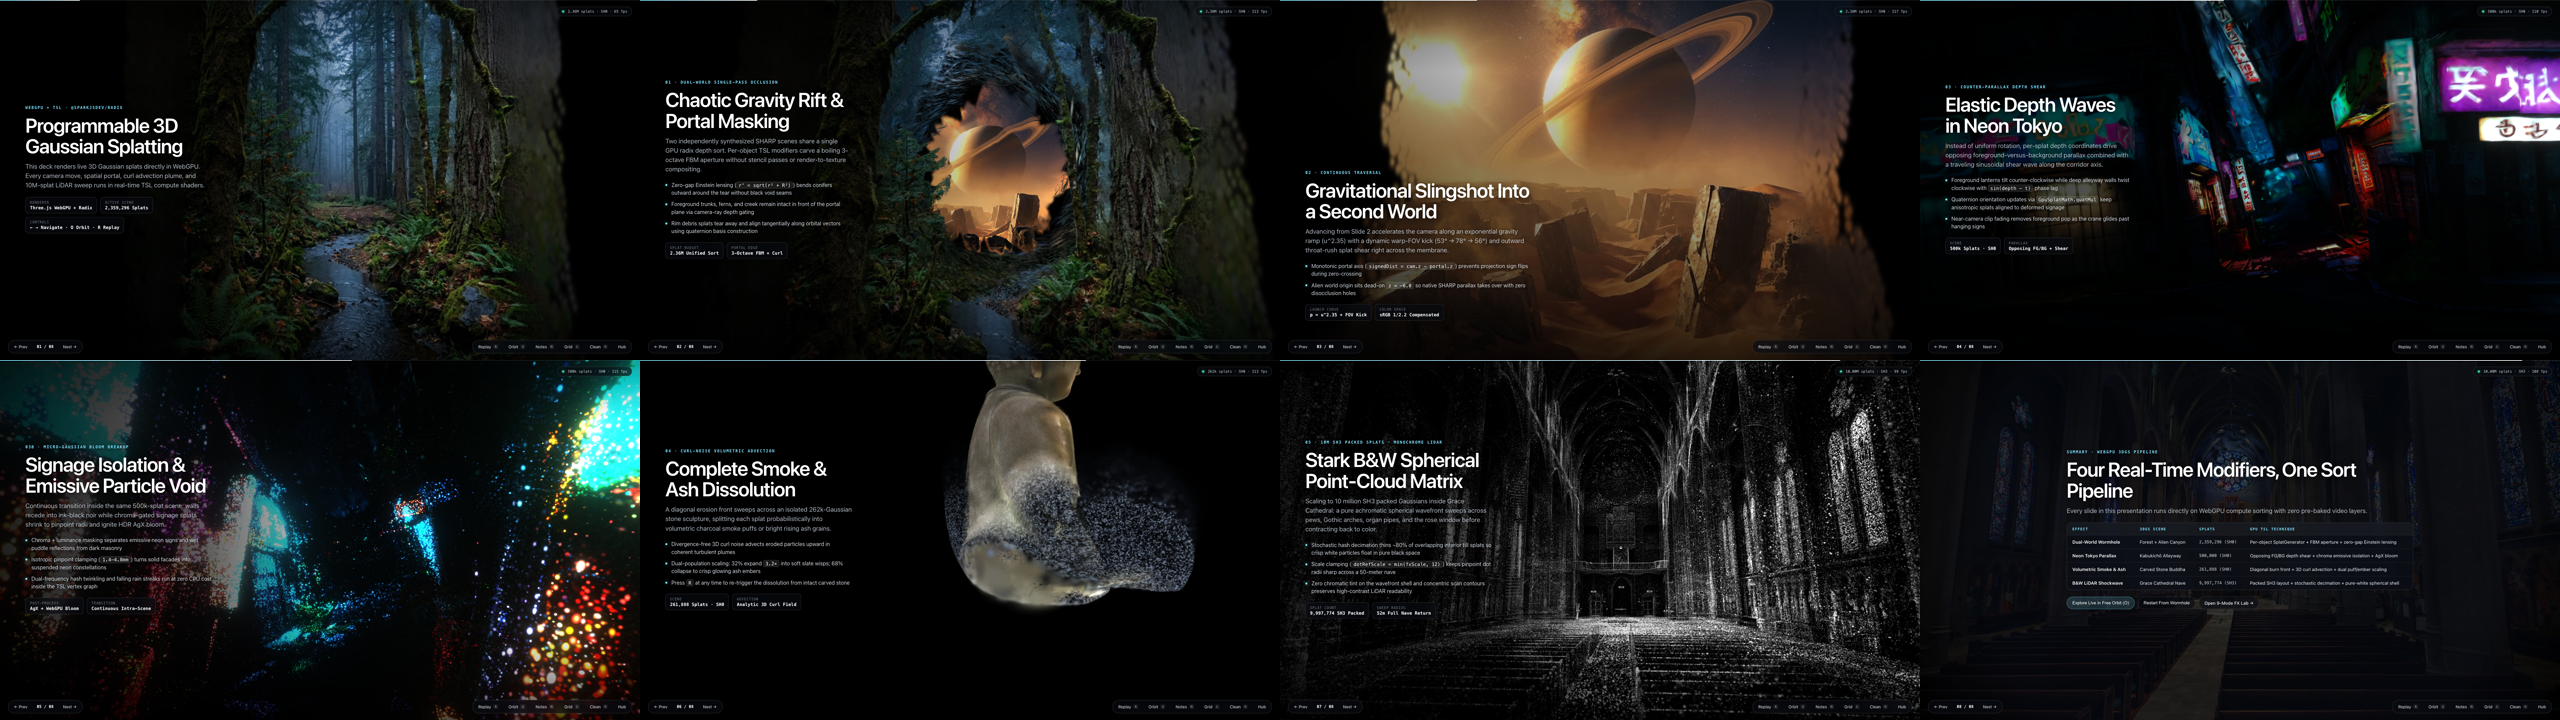
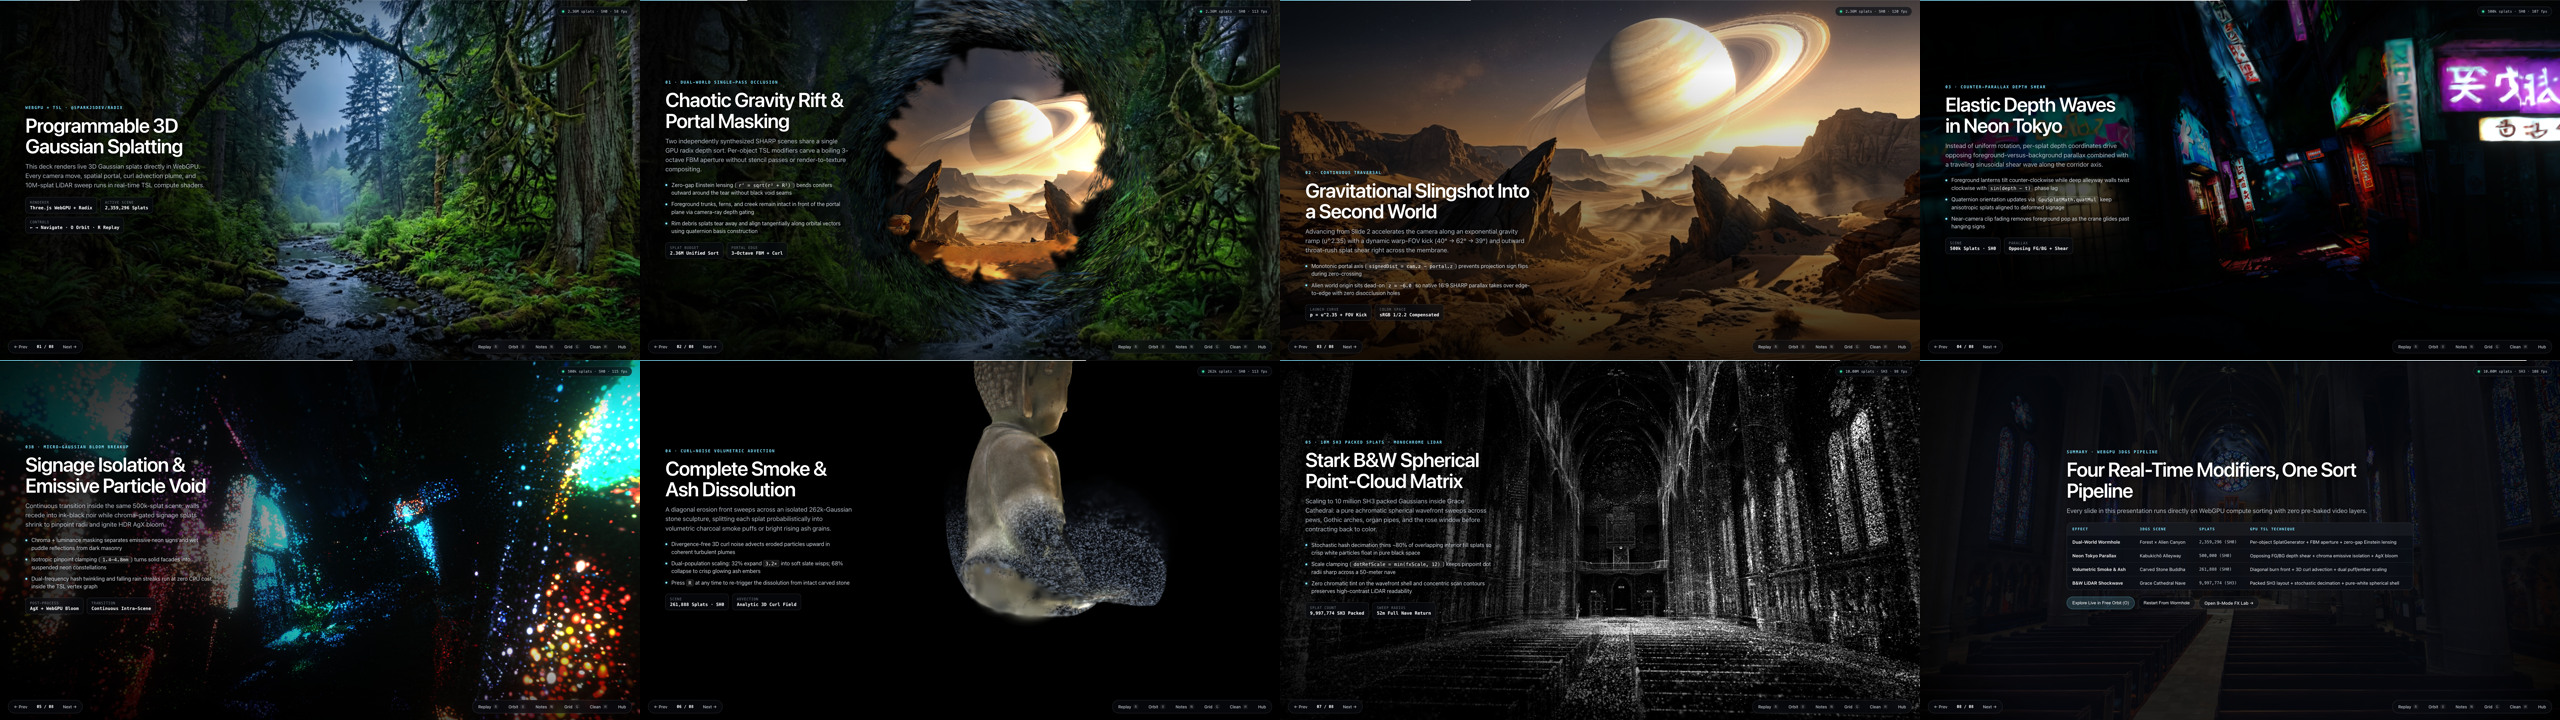
feat(playground): upgrade dual-world slides & demo video to full 16:9 landscape SHARP scenes

Changed region(s): [[0.3125, 0.0, 0.75, 0.8556], [0.0312, 0.0, 0.25, 0.5194], [0.2812, 0.2139, 0.3125, 0.2444]]

diff --git a/playground/splat-vfx/deck/slides.ts b/playground/splat-vfx/deck/slides.ts
@@ -78,16 +78,16 @@ export interface SlideSpec {
 export const DECK_SCENES: Record<DeckSceneId, SceneAssetSpec> = {
   dual_world: {
     id: "dual_world",
-    label: "Dual-World 3DGS (2.36M)",
-    url: "/assets/forest-clearing.spz",
-    secondaryUrl: "/assets/alien-dimension.spz",
+    label: "Dual-World 16:9 3DGS (2.36M)",
+    url: "/assets/forest-clearing-wide.spz",
+    secondaryUrl: "/assets/alien-dimension-wide.spz",
     placement: "dual_world",
     layout: "extSplats",
     sh: false,
     flipX: true,
     preBlur: false,
     targetSpan: 10,
-    fxCenter: [0.14, 1.05, -6.2],
+    fxCenter: [0.24, 0.55, -6.2],
     fxScale: 2.2,
     floorY: -1.1,
   },
@@ -152,11 +152,11 @@ export const SLIDES: SlideSpec[] = [
     notes:
       "Start on the intact blue-hour forest creek clearing. Both the forest (1.18M) and the hidden alien dimension (1.18M) are already mounted inside one GPU SplatCollection. Mention you can press O at any moment to orbit freely and verify it is live 3D geometry.",
     camera: {
-      pos: [-0.12, 0.06, -0.35],
-      target: [-0.24, 0.38, -6.2],
-      fov: 48,
+      pos: [0.0, 0.0, -0.25],
+      target: [0.0, 0.04, -6.2],
+      fov: 38.5,
       roll: 0.0,
-      driftAmp: [0.04, 0.018, 0.05],
+      driftAmp: [0.03, 0.014, 0.04],
       driftSpeed: 0.35,
     },
     fx: {
@@ -189,11 +189,11 @@ export const SLIDES: SlideSpec[] = [
     notes:
       "Notice there was no scene reload from Slide 1—the camera simply pushed forward down the creek while the wormhole modifier opened the aperture. Next advance will physically launch the camera through the membrane.",
     camera: {
-      pos: [-0.14, 0.16, -0.95],
-      target: [-0.34, 0.96, -6.2],
-      fov: 53,
+      pos: [0.04, 0.14, -1.05],
+      target: [-0.08, 0.42, -6.2],
+      fov: 40,
       roll: 0.0,
-      driftAmp: [0.04, 0.018, 0.05],
+      driftAmp: [0.03, 0.014, 0.04],
       driftSpeed: 0.42,
     },
     fx: {
@@ -218,10 +218,10 @@ export const SLIDES: SlideSpec[] = [
     kicker: "02 · CONTINUOUS TRAVERSAL",
     title: "Gravitational Slingshot Into a Second World",
     lead:
-      "Advancing from Slide 2 accelerates the camera along an exponential gravity ramp (u^2.35) with a dynamic warp-FOV kick (53° → 78° → 56°) and outward throat-rush splat shear right across the membrane.",
+      "Advancing from Slide 2 accelerates the camera along an exponential gravity ramp (u^2.35) with a dynamic warp-FOV kick (40° → 62° → 39°) and outward throat-rush splat shear right across the membrane.",
     bullets: [
       "Monotonic portal axis (<code>signedDist = cam.z − portal.z</code>) prevents projection sign flips during zero-crossing",
-      "Alien world origin sits dead-on <code>z = −6.0</code> so native SHARP parallax takes over with zero disocclusion holes",
+      "Alien world origin sits dead-on <code>z = −6.0</code> so native 16:9 SHARP parallax takes over edge-to-edge with zero disocclusion holes",
     ],
     metrics: [
       { label: "Launch Curve", value: "p = u^2.35 + FOV Kick" },
@@ -230,11 +230,11 @@ export const SLIDES: SlideSpec[] = [
     notes:
       "The camera physically crossed z = -6.2 through the wormhole into the warm alien canyon. Press Left Arrow if you want to show the audience the reverse traversal back out into the forest.",
     camera: {
-      pos: [0.02, 1.16, -7.25],
-      target: [-0.14, 1.72, -16.5],
-      fov: 46,
+      pos: [0.24, 0.56, -6.55],
+      target: [0.18, 0.72, -16.5],
+      fov: 39,
       roll: 0.0,
-      driftAmp: [0.05, 0.02, 0.05],
+      driftAmp: [0.04, 0.016, 0.04],
       driftSpeed: 0.34,
     },
     fx: {
@@ -349,9 +349,9 @@ export const SLIDES: SlideSpec[] = [
     notes:
       "The dissolution loops cleanly so you can talk over it, or press R to reset to intact stone right before explaining the dual-population puff vs ember split.",
     camera: {
-      pos: [-0.64, 0.06, 2.68],
-      target: [-0.52, 0.04, 0.0],
-      fov: 48,
+      pos: [-0.66, 0.14, 2.92],
+      target: [-0.52, 0.18, 0.0],
+      fov: 49,
       roll: -0.01,
       driftAmp: [0.1, 0.03, 0.04],
       driftSpeed: 0.35,

diff --git a/playground/splat-vfx/deck/main.ts b/playground/splat-vfx/deck/main.ts
@@ -390,8 +390,8 @@ function evalContinuousTransition(tr: ActiveTransition, uRaw: number) {
     const pEmerge = 1 - Math.pow(1 - uEmergeRaw, 2.4);
 
     // Bridge from forest pose -> portal throat (-6.05) -> alien emergence pose
-    const throatPos: [number, number, number] = [0.14, 0.96, -6.05];
-    const throatTgt: [number, number, number] = [0.05, 1.48, -14.5];
+    const throatPos: [number, number, number] = [0.24, 0.55, -6.05];
+    const throatTgt: [number, number, number] = [0.2, 0.68, -14.5];
 
     const posA = lerp3(forestSlide.camera.pos, throatPos, pLaunch);
     const pos = lerp3(posA, alienSlide.camera.pos, pEmerge);
@@ -399,7 +399,7 @@ function evalContinuousTransition(tr: ActiveTransition, uRaw: number) {
     const tgt = lerp3(tgtA, alienSlide.camera.target, pEmerge);
 
     const warpKick = Math.sin(Math.pow(clamp((dirU - 0.08) / 0.84, 0, 1), 1.35) * Math.PI);
-    const fov = lerp(forestSlide.camera.fov, alienSlide.camera.fov, smooth01(dirU)) + 23.0 * warpKick;
+    const fov = lerp(forestSlide.camera.fov, alienSlide.camera.fov, smooth01(dirU)) + 22.0 * warpKick;
     const roll = warpKick * (tr.reverse ? -0.105 : 0.115);
 
     applyCameraPose(pos, tgt, fov, roll);

diff --git a/playground/splat-vfx/deck/shaders.ts b/playground/splat-vfx/deck/shaders.ts
@@ -356,7 +356,7 @@ export function createMainFxModifier(u: DeckUniforms): SplatModifier {
 
 // ── Dual-World Dimensional Wormhole Modifiers (Object Space) ───────────────
 
-export const ALIEN_WORLD_OFFSET = new THREE.Vector3(0.14, 0.92, -6.0);
+export const ALIEN_WORLD_OFFSET = new THREE.Vector3(0.24, 0.55, -6.0);
 
 export function createWormholeModifiers(u: DeckUniforms) {
   const evalPortalField = (pWorld: TslNode) => {
@@ -368,7 +368,7 @@ export function createWormholeModifiers(u: DeckUniforms) {
     const openAmt = smoothstep(0.06, 0.58, prog).mul(wAmt).toVar();
 
     const bhPos = u.uFxCenter.toVar();
-    const baseR = float(0.98).toVar();
+    const baseR = float(1.06).toVar();
     const signedDist = u.uCamPos.z.sub(bhPos.z).toVar();
     const bhD = max(signedDist, float(0.35)).toVar();
     const crossedAmt = smoothstep(2.55, 0.45, signedDist).mul(openAmt).toVar();
